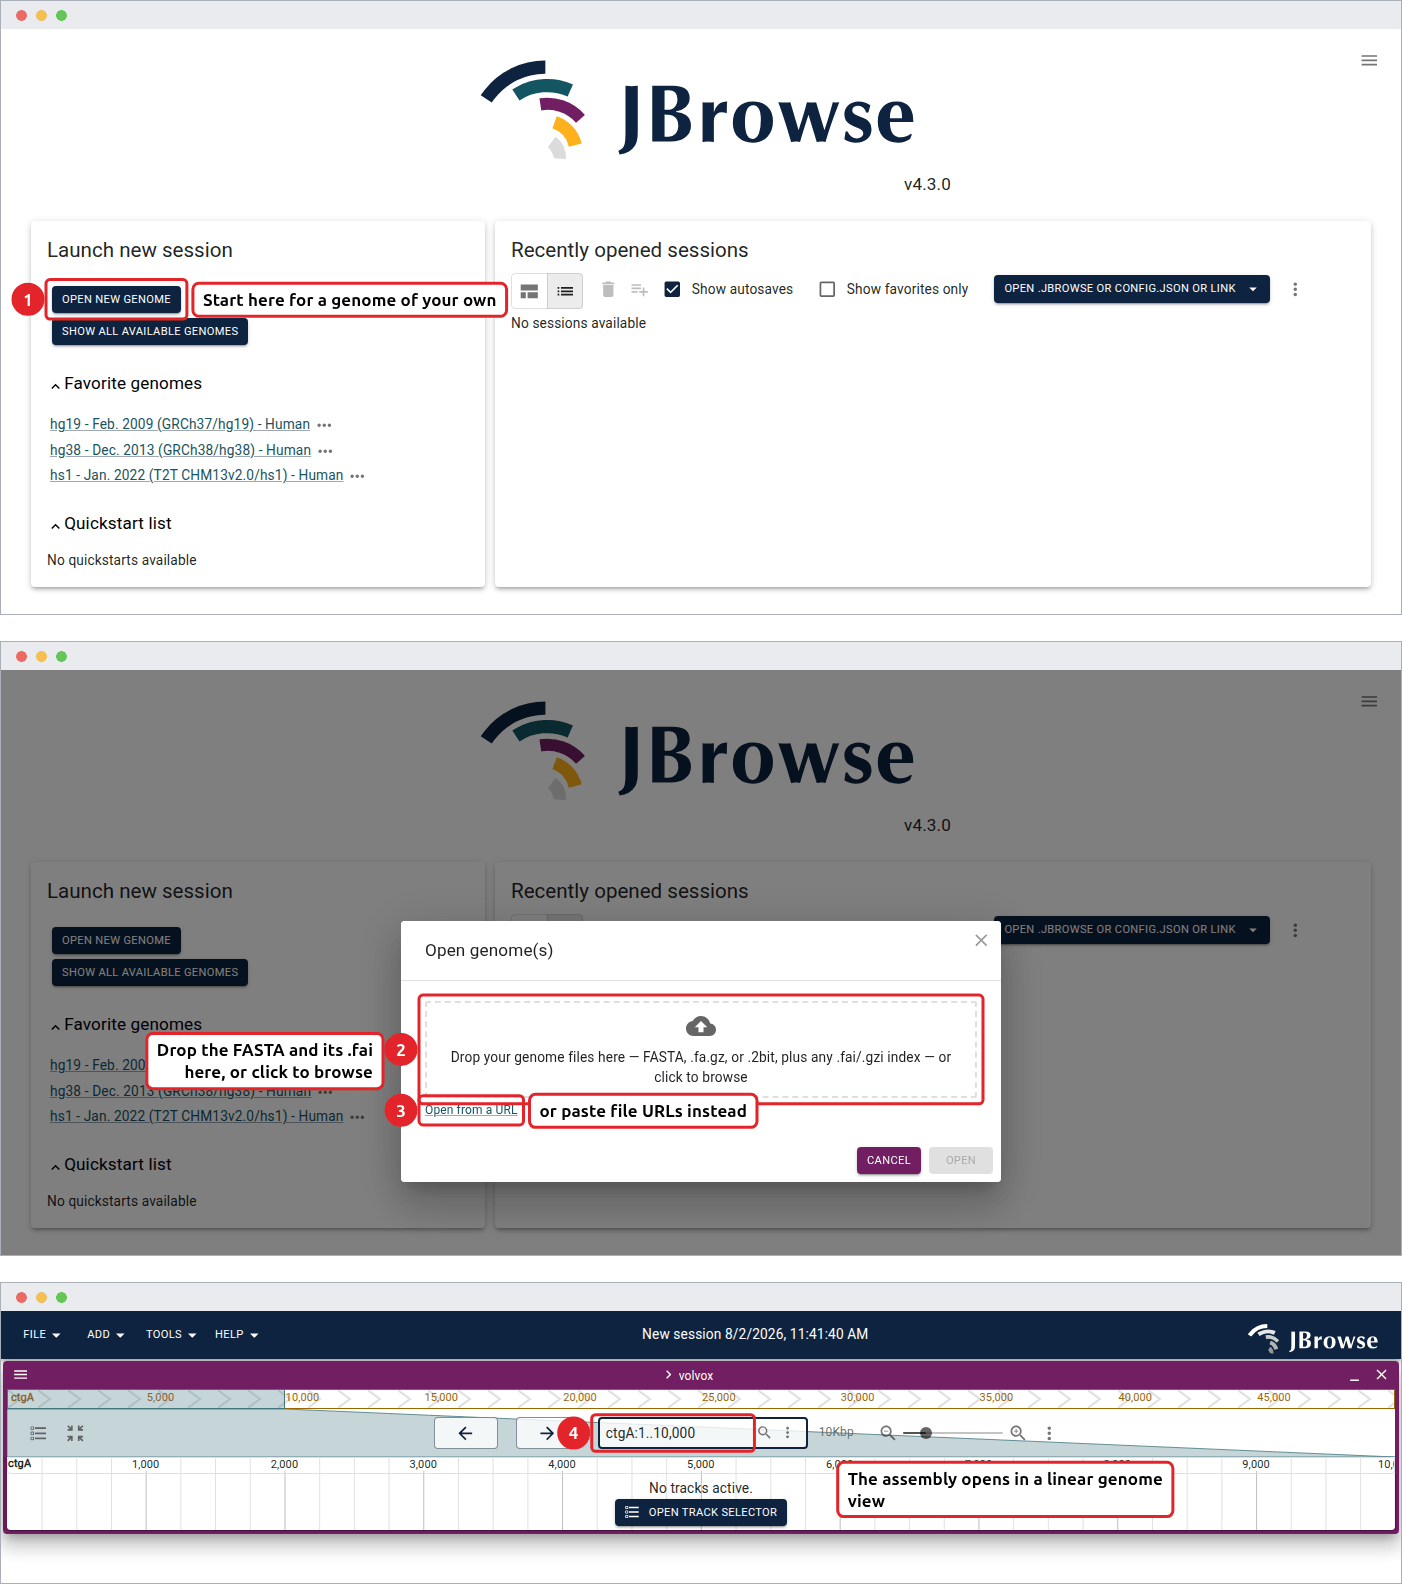
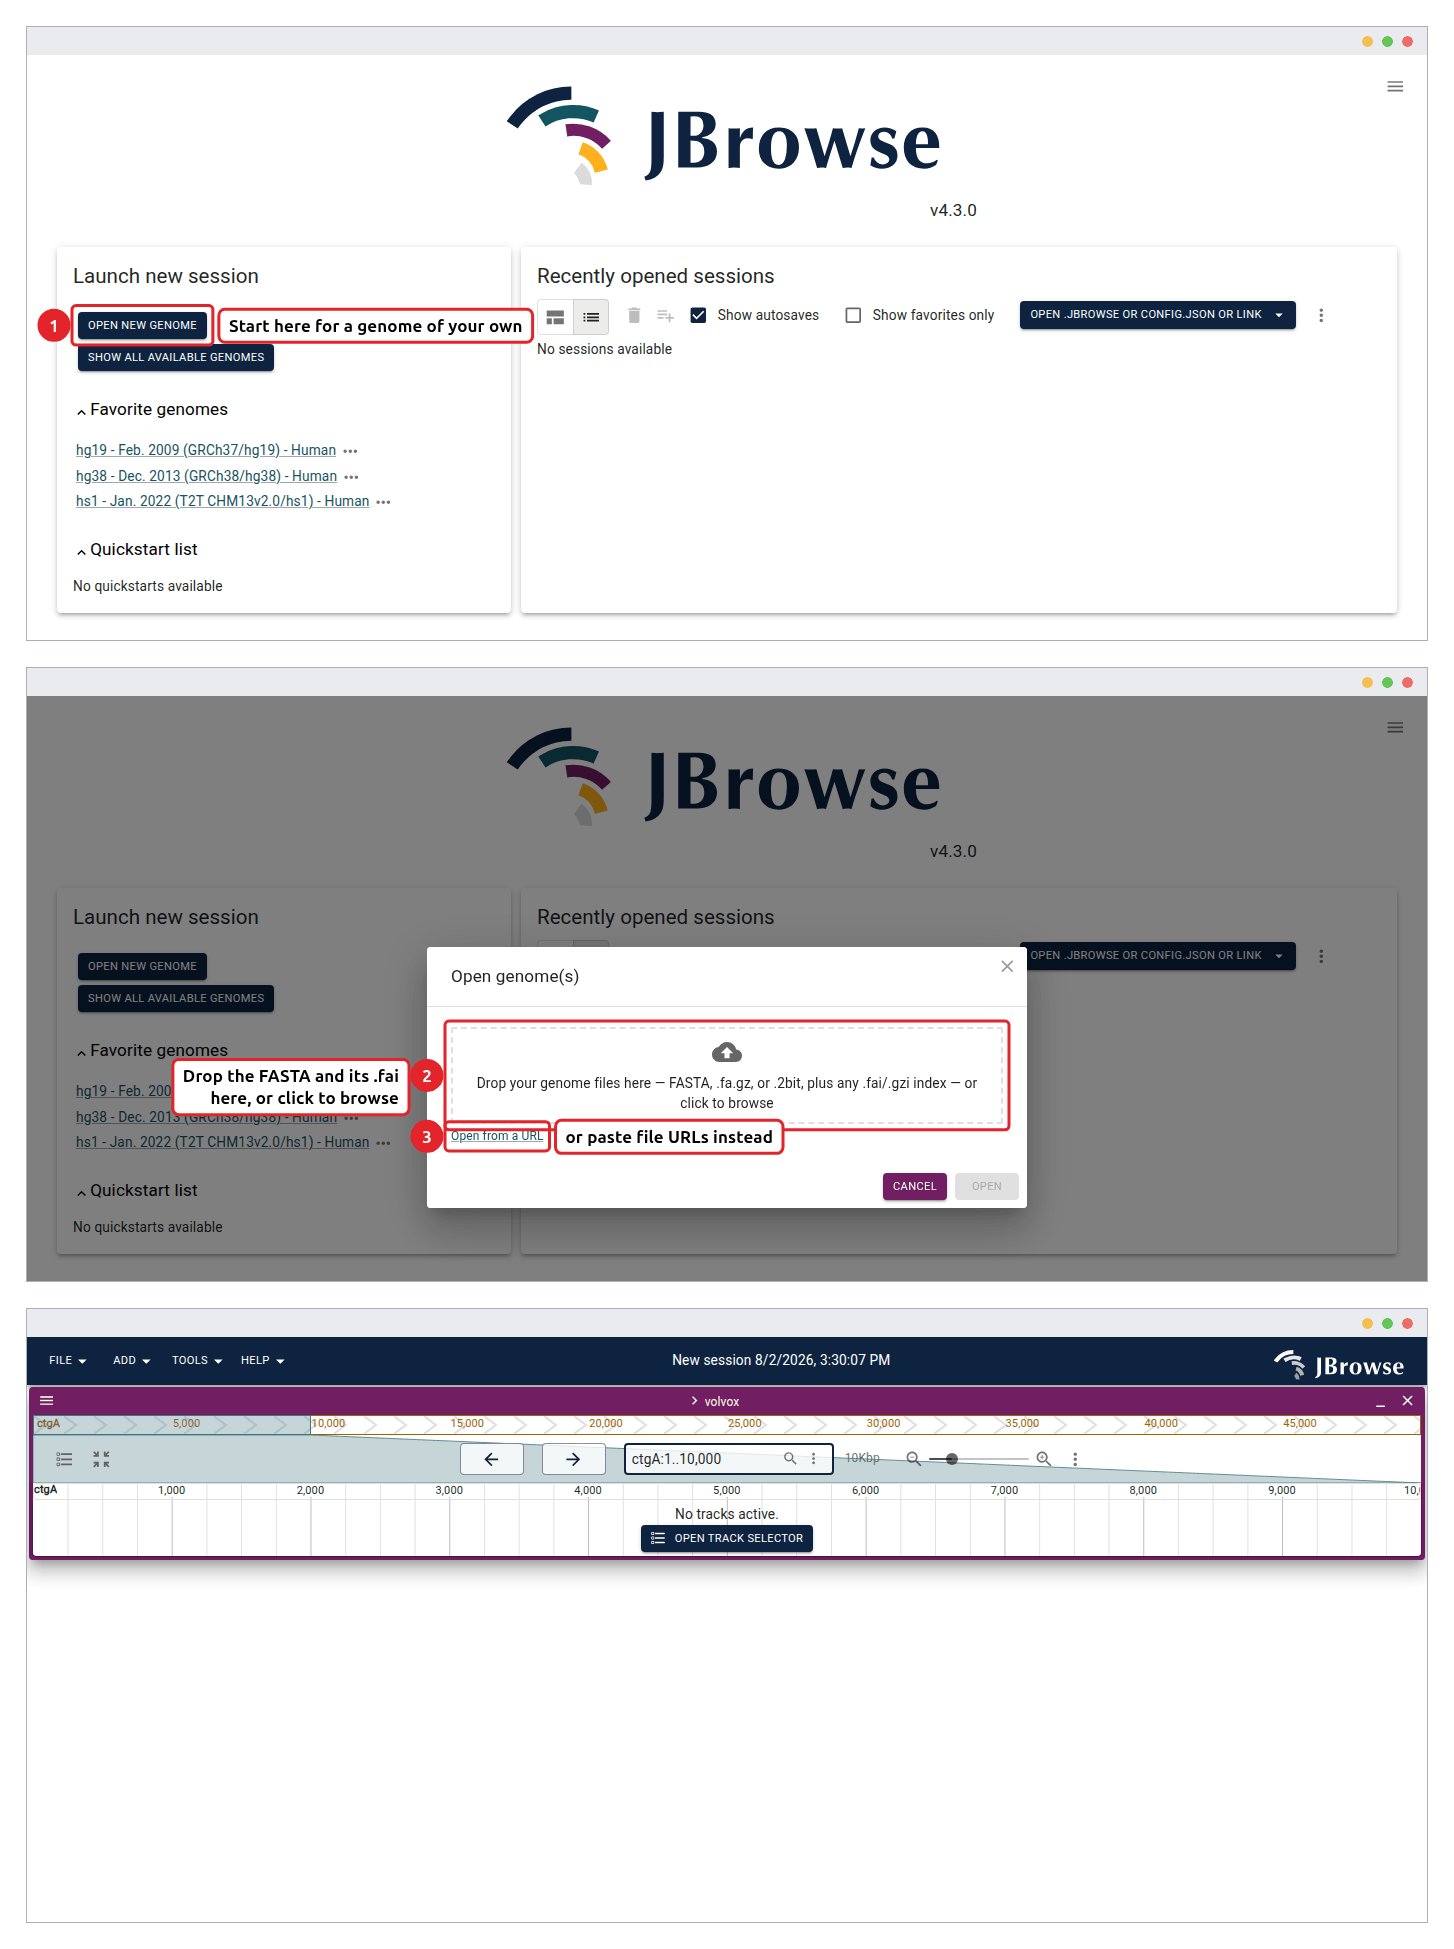
docs(desktop): uniform procedure frames, right-hand window buttons, launched-genome frame
Margin on all sides and the title-bar cluster on the right, both in
composeProcedure so all three procedure figures get them. Frames are now
trimmed by the smallest slack any of them has rather than each to its own
content, so the rows are the same size. The open-genome procedure drops the
callout that narrated its result frame, and the available-genomes procedure
drops the search callout and gains a third frame: the session a launch link
opens.

diff --git a/products/jbrowse-desktop/test/procedures.ts b/products/jbrowse-desktop/test/procedures.ts
@@ -41,6 +41,7 @@ function step({
   labelSide = 'right',
   labelDx = 0,
   labelDy = 0,
+  badgeSide = 'left',
   maxWidth,
 }: {
   n: number
@@ -49,6 +50,10 @@ function step({
   labelSide?: 'right' | 'left' | 'above' | 'below'
   labelDx?: number
   labelDy?: number
+  // which side of the control the badge sits on. Left by default; `right` is
+  // for a control whose own row identifies it to the LEFT (a table row's
+  // launch link, where the badge would otherwise cover the genome name).
+  badgeSide?: 'left' | 'right'
   maxWidth?: number
 }): Annotation[] {
   const badge: Annotation = {
@@ -57,8 +62,8 @@ function step({
     radius: 15,
     fontSize: 17,
     strokeWidth: 3,
-    anchor: { ...anchor, alignX: 'left' },
-    dx: -24,
+    anchor: { ...anchor, alignX: badgeSide },
+    dx: badgeSide === 'left' ? -24 : 24,
   }
   const box: Annotation = { type: 'box', strokeWidth: 3, anchor }
   if (!label) {
@@ -74,10 +79,18 @@ function step({
         : labelSide === 'left'
           ? { ...anchor, alignX: 'left' }
           : { ...anchor, alignX: 'right' }
-  // a left-side label ends clear of the badge, which is on that side too (the
+  // a label ends clear of the badge when the badge is on its side too: the
   // add-track form sits against the right edge of the window, so its callouts
-  // have nowhere else to go)
-  const dx = labelSide === 'right' ? 22 : labelSide === 'left' ? -52 : 0
+  // have nowhere to go but left, and a right-hand badge is 39px of the space a
+  // right-hand label would otherwise start in
+  const dx =
+    labelSide === 'right'
+      ? badgeSide === 'right'
+        ? 52
+        : 22
+      : labelSide === 'left'
+        ? -52
+        : 0
   const dy = labelSide === 'below' ? 30 : labelSide === 'above' ? -18 : 7
   return [
     box,
@@ -95,10 +108,6 @@ function step({
     },
   ]
 }
-
-// The location box identifies a linear genome view without depending on
-// anything the assembly puts in it.
-const LOCATION_BOX = 'input[placeholder="Search for location"]'
 
 export const PROCEDURES: Record<string, Procedure> = {
   'desktop-open-genome-steps.png': {
@@ -132,17 +141,12 @@ export const PROCEDURES: Record<string, Procedure> = {
         ],
       },
       {
+        // No callout: the frame IS the result, and a badge on the location box
+        // labelled "the assembly opens in a linear genome view" only narrates
+        // what the reader is already looking at. Same rule as the add-track
+        // procedure's last frame.
         title: 'linear genome view on the new assembly',
-        // clear of the view's centered "No tracks active" block, which is what
-        // a bare new assembly has under its ruler
-        annotations: step({
-          n: 4,
-          anchor: { selector: LOCATION_BOX },
-          label: 'The assembly opens in a linear genome view',
-          labelSide: 'below',
-          labelDx: 250,
-          labelDy: 10,
-        }),
+        annotations: [],
       },
     ],
   },
@@ -158,21 +162,27 @@ export const PROCEDURES: Record<string, Procedure> = {
         }),
       },
       {
+        // One callout, on the link that does something. The search box used to
+        // carry a second one; a reader who wants hg38 out of a table of
+        // hundreds does not need to be told that the box above it searches.
         title: 'available-genomes table',
-        annotations: [
-          ...step({
-            n: 2,
-            anchor: { selector: 'input[placeholder="Search genomes..."]' },
-            label: 'Search by name, species, or accession',
-            labelSide: 'above',
-          }),
-          ...step({
-            n: 3,
-            anchor: { text: 'launch' },
-            label: 'Opens the genome in a new session',
-            labelDx: 120,
-          }),
-        ],
+        // A `text` anchor takes the smallest-area match and ties keep the first,
+        // so this is the top row's link -- the same one the flow then clicks, so
+        // the callout cannot point at a row other than the one frame 3 shows.
+        // The badge goes right: on the left it lands on the genome's name, which
+        // is what tells the reader which row this is.
+        annotations: step({
+          n: 2,
+          anchor: { text: 'launch' },
+          label: 'Opens the genome in a new session',
+          badgeSide: 'right',
+          labelDx: 100,
+        }),
+      },
+      {
+        // No callout: the frame is what step 2 produced.
+        title: 'the launched genome',
+        annotations: [],
       },
     ],
   },
@@ -266,17 +276,36 @@ function trailingBackgroundPx(file: string): number {
   return count === rows.length ? 0 : count
 }
 
-// Trim a frame's dead bottom margin in place, keeping `keep` px of it so the
-// content doesn't butt against the separator rule below it.
-function trimFrame(file: string, keep = 20): void {
-  const slack = trailingBackgroundPx(file)
-  if (slack > keep) {
-    const [bin, ...args] = IDENTIFY
-    const identify = spawnSync(bin!, [...args, '-format', '%h', file], {
-      encoding: 'utf8',
-    })
-    const height = Number.parseInt((identify.stdout || '').trim(), 10)
-    if (Number.isFinite(height)) {
+function frameSize(file: string): { width: number; height: number } {
+  const [bin, ...args] = IDENTIFY
+  const identify = spawnSync(bin!, [...args, '-format', '%w %h', file], {
+    encoding: 'utf8',
+  })
+  const [width, height] = (identify.stdout || '')
+    .trim()
+    .split(' ')
+    .map(s => Number.parseInt(s, 10))
+  return { width: width ?? 0, height: height ?? 0 }
+}
+
+// Trim the frames' dead bottom margin in place, keeping `keep` px of it so the
+// content doesn't butt against the bottom of its window.
+//
+// Every frame loses the SAME amount: the smallest slack any of them has. The
+// captures are one fixed 1400x763 window whatever it is showing, so trimming
+// each to its own content made the rows three different heights, which reads as
+// three differently-sized windows rather than one window three times. Cropping
+// by the minimum keeps the rows identical AND still drops the dead page that
+// every frame shares (the start screen leaves ~200px under its panels, a
+// settled volvox view ~540px).
+function trimFrames(files: string[], keep = 20): void {
+  const slack = Math.min(...files.map(f => trailingBackgroundPx(f)))
+  if (slack <= keep) {
+    return
+  }
+  for (const file of files) {
+    const { height } = frameSize(file)
+    if (Number.isFinite(height) && height > 0) {
       execFileSync(IM, [
         file,
         '-crop',
@@ -297,24 +326,28 @@ function trimFrame(file: string, keep = 20): void {
 const TITLEBAR_PX = 28
 const TITLEBAR_COLOR = '#e9ebef'
 const WINDOW_BORDER = '#a9b0ba'
-// the three-dot cluster, in the order every client-side decoration draws it
-const WINDOW_DOTS = ['#ec6a5e', '#f4bf4f', '#61c554']
+// the button cluster, at the right of the bar and in the order a GNOME or
+// Windows title bar draws it: minimize, maximize, close, close outermost
+const WINDOW_DOTS = ['#f4bf4f', '#61c554', '#ec6a5e']
 const DOT_RADIUS = 5
 const DOT_PITCH = 20
-const DOT_X = 20
+// of the rightmost dot's center from the right edge
+const DOT_INSET = 20
 
 // Between frames, so the windows read as three pictures rather than a stack
-// welded together. Transparent rather than a page color: these figures render
-// on a docs page that has a light and a dark theme, and a baked-in white gap
-// would be a white bar down the middle of the dark one.
+// welded together, and around the whole figure, so the outermost windows are not
+// flush against whatever the docs page puts beside them. Transparent rather than
+// a page color: these figures render on a docs page that has a light and a dark
+// theme, and a baked-in white gap would be a white bar down the middle of the
+// dark one.
 const FRAME_GAP_PX = 26
 
 // A frame plus its simulated window chrome, as an ImageMagick parenthesized
 // group. The title bar is spliced above the capture and the dots are drawn into
 // it; the 1px border goes on last so it surrounds both.
-function windowFrame(file: string, gapAbove: boolean): string[] {
+function windowFrame(file: string, width: number, gapAbove: boolean): string[] {
   const dots = WINDOW_DOTS.flatMap((color, i) => {
-    const cx = DOT_X + i * DOT_PITCH
+    const cx = width - DOT_INSET - (WINDOW_DOTS.length - 1 - i) * DOT_PITCH
     const cy = Math.round(TITLEBAR_PX / 2)
     return [
       '-fill',
@@ -344,17 +377,20 @@ function windowFrame(file: string, gapAbove: boolean): string[] {
 
 // Stack the frames into one figure, each in its own window.
 export function composeProcedure(frames: string[], outPath: string): void {
-  for (const frame of frames) {
-    trimFrame(frame)
-  }
+  trimFrames(frames)
+  const { width } = frameSize(frames[0]!)
   execFileSync(IM, [
-    ...frames.flatMap((f, i) => windowFrame(f, i > 0)),
+    ...frames.flatMap((f, i) => windowFrame(f, width, i > 0)),
     '-background',
     'none',
     '-append',
     // splicing leaves the first frame's geometry as the result's virtual
     // canvas, which every later `convert` on this file then crops to
     '+repage',
+    '-bordercolor',
+    'none',
+    '-border',
+    String(FRAME_GAP_PX),
     outPath,
   ])
 }

diff --git a/products/jbrowse-desktop/test/screenshots.ts b/products/jbrowse-desktop/test/screenshots.ts
@@ -933,7 +933,26 @@ async function main(): Promise<void> {
   await blurActiveElement(driver)
   await capture(driver, 'desktop-available-genomes.png')
   await procedureFrame(driver, 'desktop-available-genomes-steps.png', 1)
-  await cleanupUI(driver)
+
+  // ...and what that table's launch link produces, which is the third frame of
+  // the procedure. The FIRST launch link in the table, because that is the one
+  // the frame above puts its callout on (a `text` anchor takes the first of
+  // several equal matches), so the two frames cannot disagree about which row
+  // this is. It launches through jbrowse.org/ucsc/<id>/config.json, the same
+  // path the hg19 favorite below takes.
+  console.log('Launching the top genome from the table...')
+  const launchLink = await driver.wait(
+    until.elementLocated(By.xpath("//table//a[normalize-space(.)='launch']")),
+    30000,
+  )
+  await driver.executeScript('arguments[0].click();', launchLink)
+  await waitForAppReady(driver)
+  await freezeAnimations(driver)
+  await hideSnackbars(driver)
+  await waitForStableSession(driver)
+  await procedureFrame(driver, 'desktop-available-genomes-steps.png', 2)
+  await returnToStartScreen(driver)
+  await freezeAnimations(driver)
 
   // BLAT / in-silico PCR dialogs on hg19, then back to the start screen
   await captureIsPcrFigures(driver)

diff --git a/website/docs/quickstart_desktop.md b/website/docs/quickstart_desktop.md
@@ -70,7 +70,7 @@ autosaves. Click a session name to reopen it (see
 **Open new genome** brings up the "Open genome(s)" dialog, and what you give it
 there becomes a new session on that assembly.
 
-<Figure src="/img/desktop-open-genome-steps.png" caption="Opening a genome from your own files. Open new genome (1) brings up the dialog, which takes the sequence file either from the drop area (2) or from pasted URLs (3), and the assembly opens in a linear genome view (4)."/>
+<Figure src="/img/desktop-open-genome-steps.png" caption="Opening a genome from your own files. Open new genome (1) brings up the dialog, which takes the sequence file either from the drop area (2) or from pasted URLs (3). The assembly then opens in a linear genome view, the third frame."/>
 
 The dialog is drop-first. Drop your sequence file (a FASTA, bgzip-compressed
 FASTA, or 2bit, along with any `.fai`/`.gzi` index files) onto the drop area, or
@@ -99,10 +99,12 @@ on the new assembly, ready for tracks.
 ### Using a pre-loaded genome
 
 If you just want a common reference genome, use **Show all available genomes**
-instead. No files are needed. Star a genome to add it to the **Favorite
-genomes** quick-launch list on the start screen.
+instead. No files are needed. The table is searchable by name, scientific name,
+or accession, and grouped by source (UCSC main genomes, GenArk, and so on). Star
+a genome to add it to the **Favorite genomes** quick-launch list on the start
+screen.
 
-<Figure src="/img/desktop-available-genomes-steps.png" caption="Launching a public assembly. Show all available genomes (1) opens a table searchable by name, scientific name, or accession (2), and launch (3) starts a session on that genome."/>
+<Figure src="/img/desktop-available-genomes-steps.png" caption="Launching a public assembly. Show all available genomes (1) opens the table, and launch (2) opens a session on that genome, here T2T CHM13v2.0/hs1 with the assembly's hub tracks listed in the track selector."/>
 
 The **Quickstart list** works the same way for genomes you've saved yourself
 (see
@@ -117,7 +119,7 @@ Once a genome is open, add data tracks from local files or URLs.
 Open the **File** menu and choose **Open track...**, or open the track selector
 and use its **Add track** button. Either opens the "Add a track" form.
 
-<Figure src="/img/desktop-add-track-steps.png" caption="Adding a track. File then Open track... (1) opens the form, which takes a main file as a local path or a URL (2) and infers the index from it (3). Next (4) confirms the guessed track type, and the track is added to the open view (5)."/>
+<Figure src="/img/desktop-add-track-steps.png" caption="Adding a track. File then Open track... (1) opens the form, which takes a main file as a local path or a URL (2) and infers the index from it (3). Confirming the guessed track type adds the track to the open view, the third frame."/>
 
 - Choose **Add a track from file or URL**.
 - Set the **Main file** (the data file) and optionally an **Index file**. For
